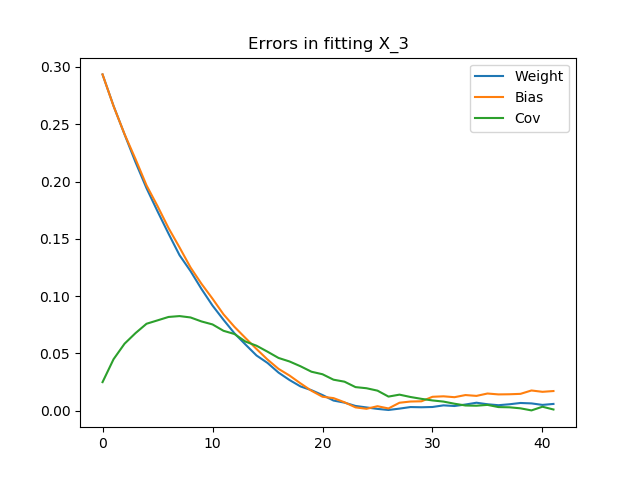
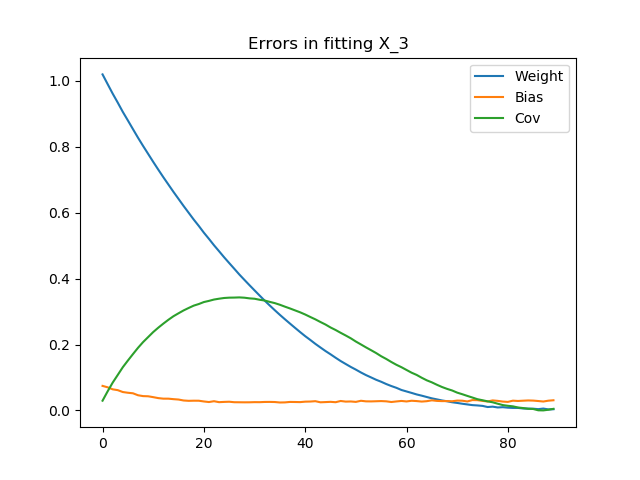
Implement multivariate exact inference

diff --git a/inference.py b/inference.py
@@ -1,31 +1,48 @@
 import torch
 from torch.distributions.normal import Normal
+from torch.nn.functional import one_hot
 
 from distributions import GaussianDistribution
 
-def get_coeffs_from_generative(mc, query, evidence):
-    true_bias = infer_from_generative(mc, query, evidence, 0).mean
-    true_mean = infer_from_generative(mc, query, evidence, 1).mean - true_bias
-    true_cov = infer_from_generative(mc, query, evidence, 0).cov
+def get_coeffs_from_generative(mc, query, evidence, dim=1):
+    zero = 0 if dim == 1 else torch.zeros(dim)
+
+    true_bias = infer_from_generative(mc, query, evidence, zero).mean
+    true_cov = infer_from_generative(mc, query, evidence, zero).cov
+
+    if dim == 1:
+        true_mean = infer_from_generative(mc, query, evidence, 1).mean - true_bias
+    else:
+        cols = []
+        for i in range(dim):
+            x = one_hot(torch.tensor(i), dim)
+            col_i = infer_from_generative(mc, query, evidence, x).mean - true_bias
+            cols.append(col_i)
+        true_mean = torch.stack(cols).T
 
     return true_mean, true_bias, true_cov
 
 def compute_joint_linear(mc, query_node, evidence_node, evidence=1):
-    # Only works for scalar linear gaussian
+    dim = isinstance(evidence, torch.Tensor) and evidence.shape and evidence.shape[-1]
+    multi = dim > 1
+
     evidence = {evidence_node: evidence}
+
+    zero = 0 if not multi else torch.zeros(dim)
+    identity = 1 if not multi else torch.eye(dim)
 
     all_coeffs = []
     means = []
     covs = []
-    prev_mean = 0
-    prev_cov = 1
+    prev_mean = zero
+    prev_cov = identity
     all_cov = []
     for i, var in enumerate(mc.ordering):
         node = mc.get_node(var)
 
         # TODO: clean this up
         if isinstance(node.cpd, GaussianDistribution):
-            coeffs = (0, node.cpd.mean)
+            coeffs = (zero, node.cpd.mean)
             cov_node = node.cpd.cov
         elif hasattr(node.cpd.cond_fn, "weights"):
             coeffs = (node.cpd.cond_fn.weights[0].weight, node.cpd.cond_fn.weights[0].bias)
@@ -38,12 +55,18 @@ def compute_joint_linear(mc, query_node, evidence_node, evidence=1):
         all_cov.append(cov_node)
 
         # Mean computations
-        curr_mean = prev_mean * coeffs[0] + coeffs[1]
+        if multi:
+            curr_mean = prev_mean @ coeffs[0].T + coeffs[1]
+        else:
+            curr_mean = prev_mean * coeffs[0] + coeffs[1]
         means.append(curr_mean)
         prev_mean = curr_mean
 
         # cov computations
-        curr_cov = coeffs[0]*prev_cov*coeffs[0] + cov_node
+        if multi:
+            curr_cov = coeffs[0] @ prev_cov @ coeffs[0].T + cov_node
+        else:
+            curr_cov = coeffs[0]*prev_cov*coeffs[0] + cov_node
         covs.append(curr_cov)
         prev_cov = curr_cov
 
@@ -52,11 +75,15 @@ def compute_joint_linear(mc, query_node, evidence_node, evidence=1):
     evidence_idx = mc.ordering.index(evidence_node)
 
     # getting the front multiplier on the later variable in terms of the earlier one.
-    front_multiplier = 1
+    front_multiplier = identity
     start = min(query_idx, evidence_idx)
     end = max(query_idx, evidence_idx) + 1
     for i in range(start + 1, end):
-        front_multiplier *= all_coeffs[i][0]
+        coeff = all_coeffs[i][0]
+        if multi:
+            front_multiplier = coeff @ front_multiplier
+        else:
+            front_multiplier *= coeff
 
     # Marginalizing out everything else and computing the cross covariances
     query_mean = means[query_idx]
@@ -65,7 +92,10 @@ def compute_joint_linear(mc, query_node, evidence_node, evidence=1):
     evidence_mean = means[evidence_idx]
     evidence_cov = covs[evidence_idx]
 
-    cross_cov = front_multiplier * query_cov
+    if multi:
+        cross_cov = query_cov @ front_multiplier.T
+    else:
+        cross_cov = front_multiplier * query_cov
 
     # print(f"Exact inference on {query_node}|{evidence_node}={evidence}")
     # print(f"All coeffs: {[all_coeffs[i][0] for i in range(start+1, end)]}")
@@ -82,15 +112,19 @@ def compute_joint_linear(mc, query_node, evidence_node, evidence=1):
     # Conditioning: Conditioning on the evidence to get the query distribution
     # Currently works both ways because it is a scalar
     if query_idx < evidence_idx:
-        cond_mean = query_mean + cross_cov*(1./evidence_cov)*(evidence[evidence_node] - evidence_mean)
-        cond_cov = query_cov - cross_cov * (1. / evidence_cov) * cross_cov
+        if isinstance(cross_cov, torch.Tensor):
+            cond_mean = query_mean + cross_cov @ torch.inverse(evidence_cov) @ (evidence[evidence_node] - evidence_mean)
+            cond_cov = query_cov - cross_cov @ torch.inverse(evidence_cov) @ cross_cov.T
+        else:
+            cond_mean = query_mean + cross_cov*(1./evidence_cov)*(evidence[evidence_node] - evidence_mean)
+            cond_cov = query_cov - cross_cov * (1. / evidence_cov) * cross_cov
     else:
         cond_mean = query_mean
         cond_cov = query_cov
 
     # print(all_coeffs)
     # print(all_cov)
-    c = [coeff[0] for coeff in all_coeffs[1:]]
+    # c = [coeff[0] for coeff in all_coeffs[1:]]
 
     # print(f"query_cov: {query_cov}, cross_cov: {cross_cov}, evidence_cov: {evidence_cov}")
     # print(f"Numerator: {cross_cov ** 2}, should be: {(c[0] * c[1] * c[2]) ** 2 * all_cov[0] ** 2}")

diff --git a/multivariate_tests.py b/multivariate_tests.py
@@ -3,7 +3,7 @@ import torch
 from conditionals import LinearGaussianCPD
 from fitting import fit_MLE
 from simple_markov_chain import SimpleMarkovChain
-from prob_utils import get_coeffs_from_generative
+from inference import compute_joint_linear, get_coeffs_from_generative
 
 a2 = torch.eye(2)
 a1 = torch.tensor([[1, 2], [0, -3]]).float()
@@ -17,11 +17,23 @@ cov1 = torch.diag(torch.tensor([2, 3]).float())
 cov2 = torch.tensor([[3, 0], [0, 7]]).float()
 
 def test_exact_inference():
-    # Scalar case
+    # Scalar case (should be 0.33, 0, 0.67)
     mc = SimpleMarkovChain(3)
     mc.specify_polynomial_cpds((0, 1), [(1, 0), (1, 0)], [1, 1])
     weight, bias, cov = get_coeffs_from_generative(mc, "X_1", "X_3")
     print(weight, bias, cov)
+
+    # Multivariate case
+    mc = SimpleMarkovChain(2)
+    mc.specify_polynomial_cpds(
+        (torch.tensor([0, 2]).float(), torch.diag(torch.tensor([1, 0.4]))), 
+        [(torch.diag(torch.tensor([2., -1.])), torch.tensor([-3., 3.]))], 
+        [torch.diag(torch.tensor([0.5, 1.2]))]
+    )
+    weight, bias, cov = get_coeffs_from_generative(mc, "X_1", "X_2", 2)
+    print("Weight:", weight)
+    print("Bias:", bias)
+    print("Cov:", cov)
 
 def test_fitting():
     mc = SimpleMarkovChain(3)
@@ -55,5 +67,5 @@ def test_polynomial_gaussian():
 
 if __name__ == "__main__":
     # test_polynomial_gaussian()
-    # test_exact_inference()
-    test_fitting()
+    test_exact_inference()
+    # test_fitting()

diff --git a/experiments.py b/experiments.py
@@ -9,7 +9,7 @@ from conditionals import GaussianCPD, LinearGaussianCPD
 from discriminative_markov_chain import DiscriminativeMarkovChain
 from distributions import GaussianDistribution
 from fitting import fit_MLE, fit_VI, reverse_KL_linear, variational_loss
-from prob_utils import *
+from inference import *
 from simple_markov_chain import SimpleMarkovChain
 
 def get_inference_results(mc, num_samples=10000):

diff --git a/fitting_experiments.py b/fitting_experiments.py
@@ -5,7 +5,7 @@ import torch
 from discriminative_markov_chain import DiscriminativeMarkovChain
 from distributions import GaussianDistribution
 from fitting import fit_VI, fit_MLE
-from prob_utils import compute_joint_linear
+from inference import compute_joint_linear
 from simple_markov_chain import SimpleMarkovChain
 
 def print_comparison(true_params, fitted_params):

diff --git a/fitting.py b/fitting.py
@@ -5,7 +5,7 @@ import torch.optim as optim
 import matplotlib.pyplot as plt
 
 from distributions import GaussianDistribution
-from prob_utils import compute_joint_linear, kl_div_gaussian
+from inference import compute_joint_linear, kl_div_gaussian
 
 class ConditionalDataset(torch.utils.data.Dataset):
     def __init__(self, evidence_vars, data):
